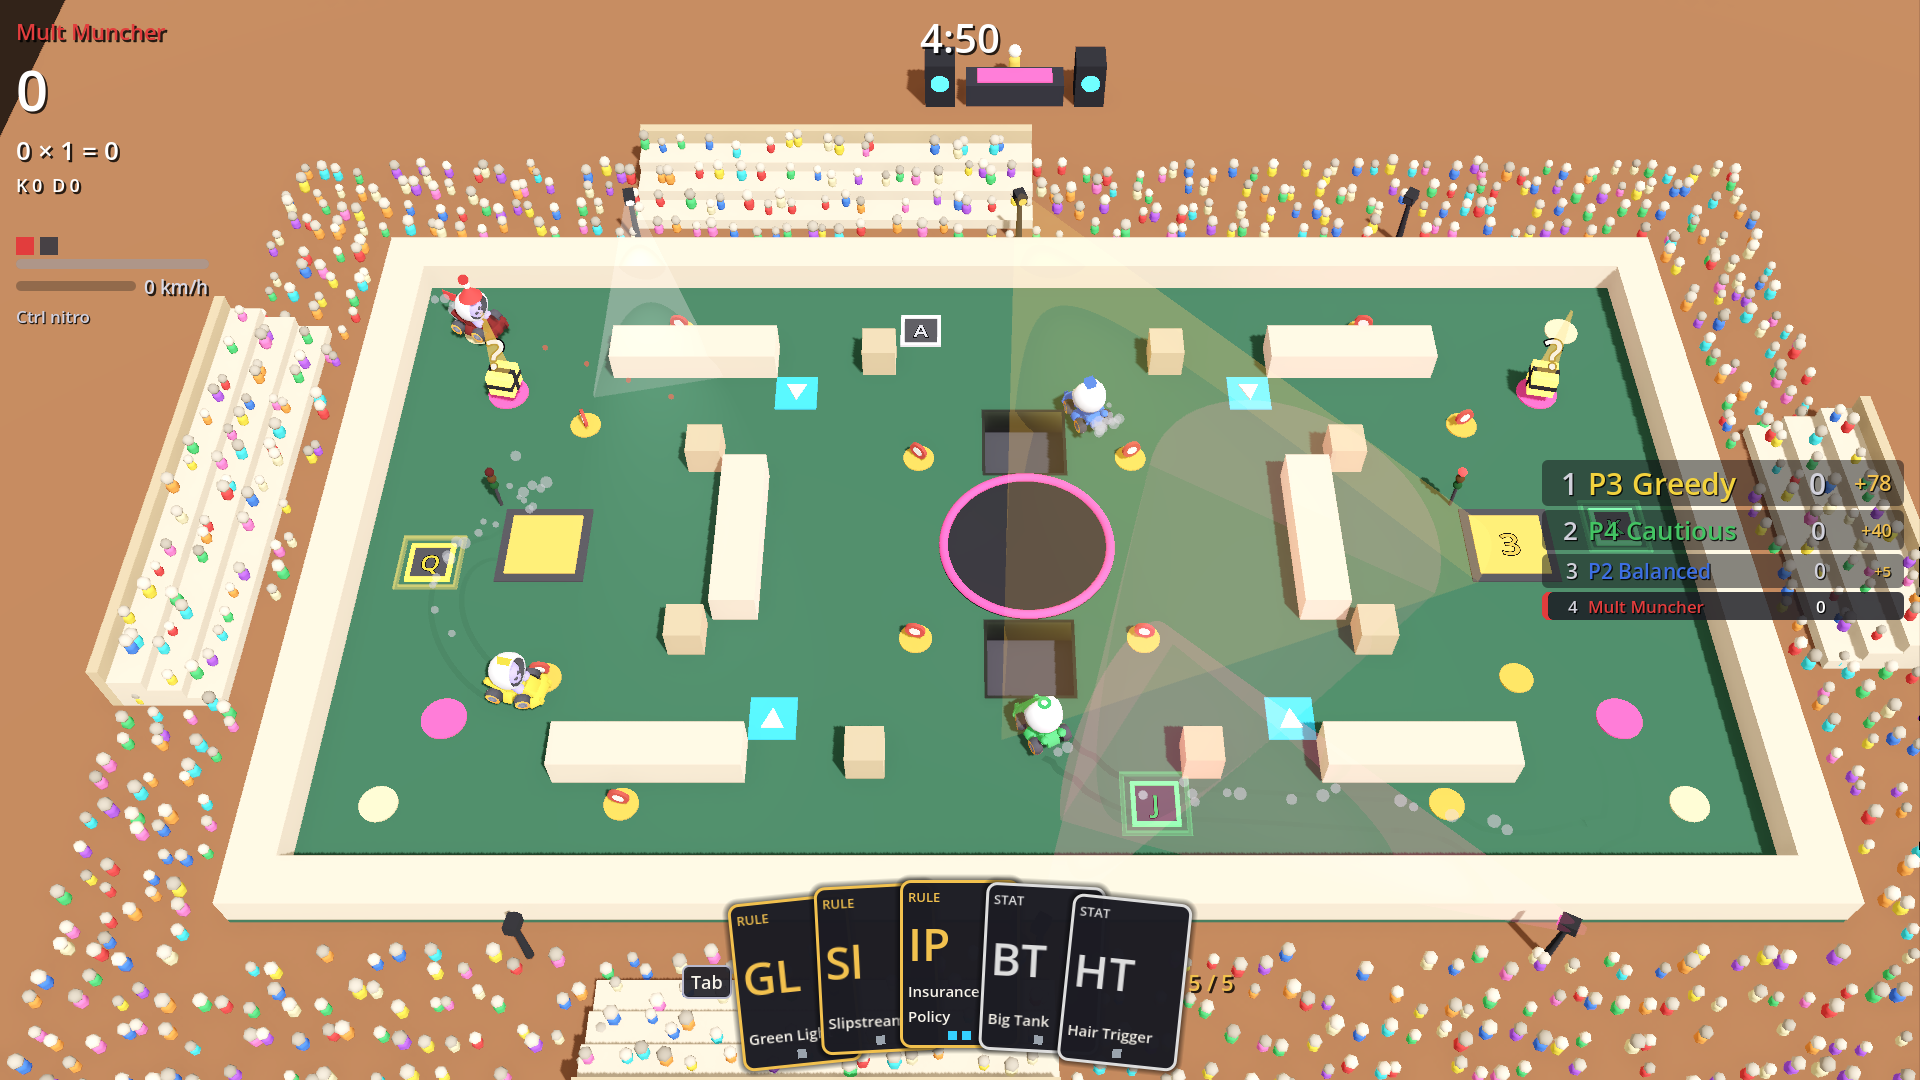
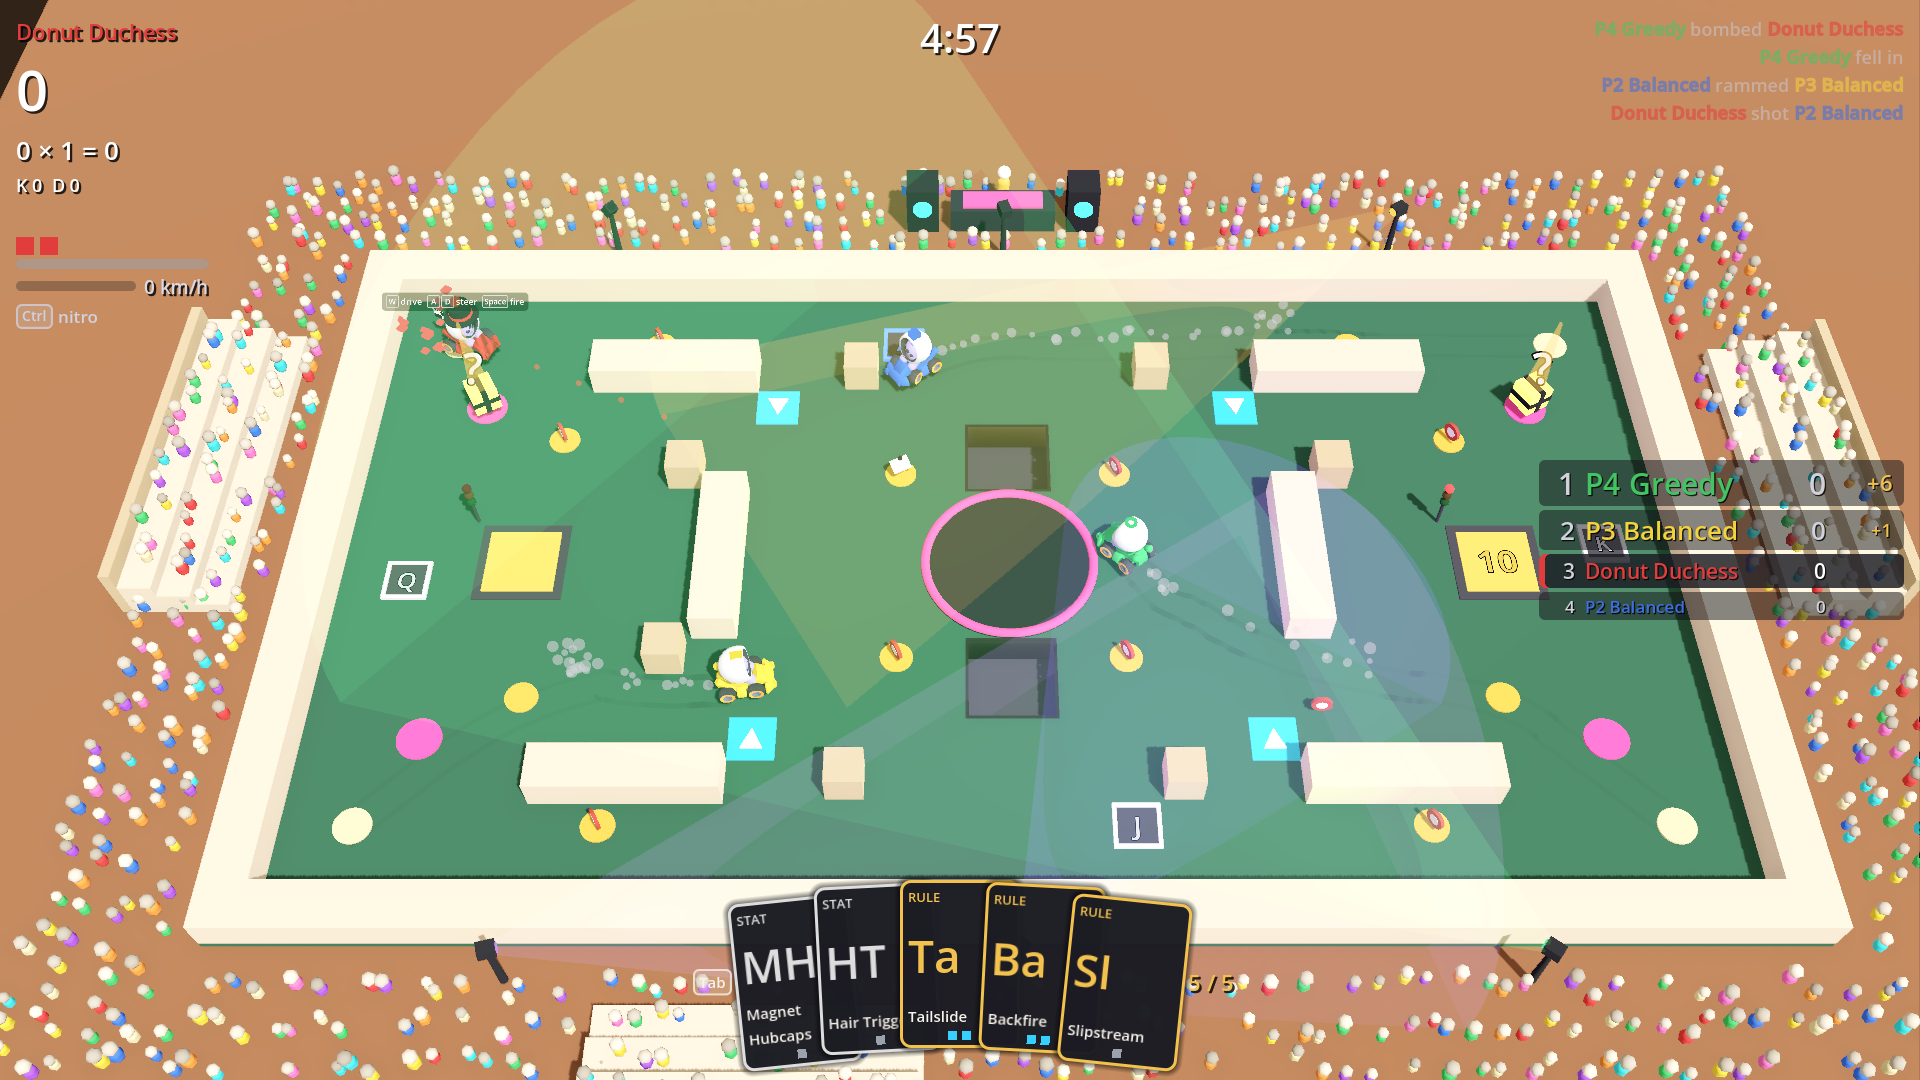
A new screenshot for the README
The old one predates the booth moving into the crowd and every control hint
becoming a drawn button, and it was taken during the opening seconds with
nobody doing anything. This one is a few seconds into a match with shots in
the air.

Claude-Session: https://claude.ai/code/session_01VMFaG88qPJdpAQCvaJMppX

diff --git a/README.md b/README.md
@@ -9,7 +9,7 @@ Made with Godot 4.7 and GDScript. `GAME.md` holds the design, `PLAN.md` the
 implementation plan with the status of every milestone, and `CHANGELOG.md` what
 has changed in each release.
 
-![Four karts on a felt-topped table arena, ringed by a crowd of onlookers several rows deep with tribunes built into it, a DJ booth at the far edge, the standings down the right and a hand of joker cards along the bottom of the screen](docs/screenshot.png)
+![Four karts driving and shooting on a felt-topped table arena, ringed by a crowd of onlookers several rows deep with tribunes built into it, a DJ booth at the far edge, the kill feed and standings down the right and a hand of joker cards along the bottom of the screen](docs/screenshot.png)
 
 ## Playing
 
